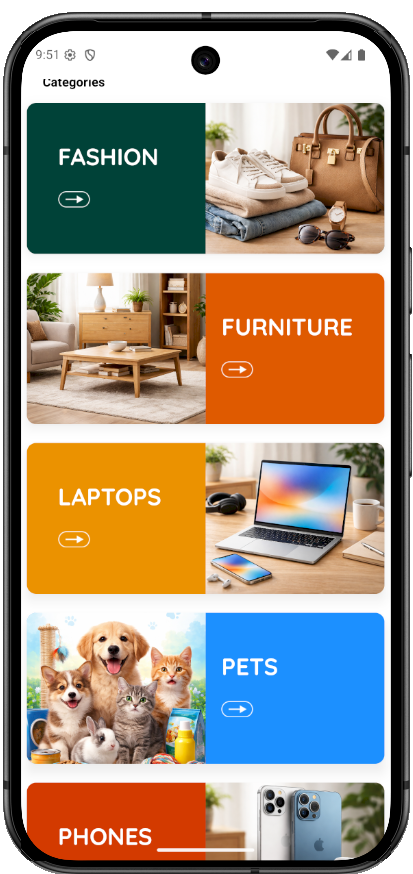
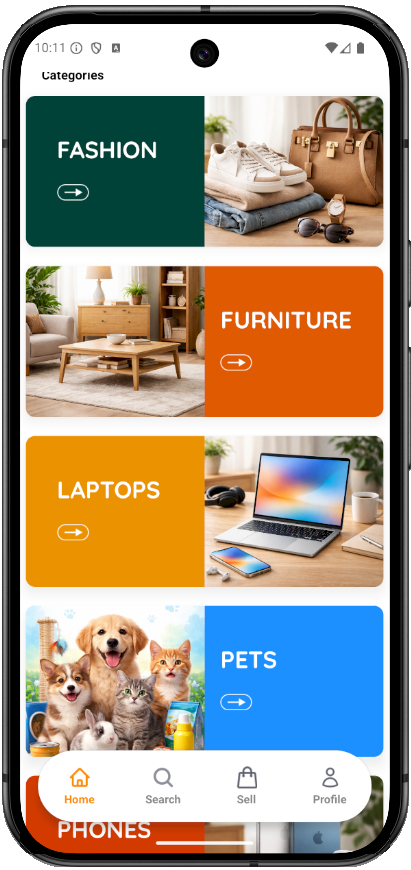
Add navigation bar for tabs

diff --git a/app/(tabs)/_layout.tsx b/app/(tabs)/_layout.tsx
@@ -1,18 +1,68 @@
+import TabBarIcon from "@/components/TabBarIcon"
+import { images } from "@/constants"
 import { useAuth } from "@/context/AuthContext"
-import { Redirect, Slot, SplashScreen } from 'expo-router'
-import { useEffect } from "react"
-import { Text } from "react-native"
+import { Redirect, Tabs } from 'expo-router'
+
+
 
 export default function _Layout() {
   const { isAuthenticated, isInitialLoad } = useAuth()
 
   if (isInitialLoad) {
-    return <Text>stuck on layout screen</Text>
+    return null
   }
 
   if (!isAuthenticated) {
     return <Redirect href="/(auth)/sign-in" />
   }
 
-  return <Slot />
+  return (
+    <Tabs
+      screenOptions={{
+        headerShown: false,
+        tabBarShowLabel: false,
+        tabBarStyle: {
+          borderTopLeftRadius: 50,
+          borderTopRightRadius: 50,
+          borderBottomLeftRadius: 50,
+          borderBottomRightRadius: 50,
+          marginHorizontal: 20,
+          height: 80,
+          position: "absolute",
+          bottom: 35,
+          backgroundColor: "white",
+          shadowColor: "#1a1a1a",
+          shadowOffset: { width: 0, height: 2 },
+          shadowOpacity: 0.1,
+          shadowRadius: 4,
+          elevation: 5
+        }
+      }}
+    >
+      <Tabs.Screen
+        name="index"
+        options={{
+          tabBarIcon: ({ focused} ) => <TabBarIcon focused={focused} title="Home" icon={images.home}/>
+        }}
+      />
+      <Tabs.Screen
+        name="search"
+        options={{
+          tabBarIcon: ({ focused} ) => <TabBarIcon focused={focused} title="Search" icon={images.search}/>
+        }}
+      />
+      <Tabs.Screen
+        name="sell"
+        options={{
+          tabBarIcon: ({ focused} ) => <TabBarIcon focused={focused} title="Sell" icon={images.bag}/>
+        }}
+      />
+      <Tabs.Screen
+        name="profile"
+        options={{
+          tabBarIcon: ({ focused} ) => <TabBarIcon focused={focused} title="Profile" icon={images.user}/>
+        }}
+      />
+    </Tabs>
+  )
 }

diff --git a/constants/index.ts b/constants/index.ts
@@ -19,50 +19,16 @@ import star from "@/assets/icons/star.png";
 import trash from "@/assets/icons/trash.png";
 import user from "@/assets/icons/user.png";
 
-import avatar from "@/assets/images/avatar.png";
-import avocado from "@/assets/images/avocado.png";
-import bacon from "@/assets/images/bacon.png";
-import burgerOne from "@/assets/images/burger-one.png";
-import burgerTwo from "@/assets/images/burger-two.png";
-import buritto from "@/assets/images/buritto.png";
-import cheese from "@/assets/images/cheese.png";
-import coleslaw from "@/assets/images/coleslaw.png";
-import cucumber from "@/assets/images/cucumber.png";
 import emptyState from "@/assets/images/empty-state.png";
-import fries from "@/assets/images/fries.png";
 import loginGraphic from "@/assets/images/login-graphic.jpg";
 import logo from "@/assets/images/logo.png";
-import mozarellaSticks from "@/assets/images/mozarella-sticks.png";
-import mushrooms from "@/assets/images/mushrooms.png";
-import onionRings from "@/assets/images/onion-rings.png";
-import onions from "@/assets/images/onions.png";
-import pizzaOne from "@/assets/images/pizza-one.png";
-import salad from "@/assets/images/salad.png";
 import success from "@/assets/images/success.png";
-import tomatoes from "@/assets/images/tomatoes.png";
 
 export const images = {
-    avatar,
-    avocado,
-    bacon,
-    burgerOne,
-    burgerTwo,
-    buritto,
-    cheese,
-    coleslaw,
-    cucumber,
     emptyState,
-    fries,
     loginGraphic,
     logo,
-    mozarellaSticks,
-    mushrooms,
-    onionRings,
-    onions,
-    pizzaOne,
-    salad,
     success,
-    tomatoes,
     arrowBack,
     arrowDown,
     arrowRight,

diff --git a/app/(tabs)/index.tsx b/app/(tabs)/index.tsx
@@ -7,12 +7,9 @@ import { useQuery } from "@tanstack/react-query";
 import LoadingIndicator from "@/components/LoadingIndicator";
 import PageLoadError from "@/components/PageLoadError";
 import { fetchCategoriesQueryOptions } from "@/api/listingsQueryOptions";
-import { useAuth } from "@/context/AuthContext";
  
 
 export default function Index() {
-    const { user, signOut } = useAuth()
-
     const { data, isLoading, error, refetch } = useQuery(fetchCategoriesQueryOptions)
 
     if (isLoading) return (
@@ -68,11 +65,6 @@ export default function Index() {
                         <View className="flex-start">
                             <Text className="font-bold">Categories</Text>
                         </View>
-                        <Pressable onPress={signOut} style={({pressed}) => [ { opacity: pressed ? 0.7 : 1, margin: 2 }, { padding: 2 } ]}>
-                            <Text>
-                                {user?.sub ?? "No User"}
-                            </Text>
-                        </Pressable>
                     </View>
                 )}  
             />

diff --git a/components/TabBarIcon.tsx b/components/TabBarIcon.tsx
@@ -1,0 +1,25 @@
+import { View, Text, Image, ImageSourcePropType } from 'react-native'
+import React from 'react'
+import cn from "clsx"
+
+interface TabBarIconProps {
+    focused: boolean
+    icon: ImageSourcePropType
+    title: string
+}
+
+const TabBarIcon = ({ focused, icon, title }: TabBarIconProps) => {
+  return (
+    <View className="tab-icon">
+        <Image 
+            source={icon} 
+            className="size-7" 
+            resizeMode="contain" 
+            tintColor={focused ? "#FE8C00" : "#5D5F6D"}
+        />
+        <Text className={cn("text-sm font-bold", focused ? "text-primary" : "text-gray-200")}>{title}</Text>
+    </View>
+  )
+}
+
+export default TabBarIcon

diff --git a/app/(tabs)/profile.tsx b/app/(tabs)/profile.tsx
@@ -1,9 +1,17 @@
+import CustomButton from "@/components/CustomButton"
+import { useAuth } from "@/context/AuthContext"
 import { View, Text } from 'react-native'
 
 const Profile = () => {
+  const { signOut, user } = useAuth()
+
   return (
-    <View>
-      <Text>Profile</Text>
+    <View className="flex-1 items-center justify-center bg-white px-4">
+      <Text className="mb-4 text-lg">User ID: {user?.sub}</Text>
+      <CustomButton
+        onPress={signOut}
+        title="Sign Out"
+      />
     </View>
   )
 }

diff --git a/app/(tabs)/sell.tsx b/app/(tabs)/sell.tsx
@@ -2,9 +2,9 @@ import { View, Text } from 'react-native'
 
 const Sell = () => {
   return (
-    <View>
-      <Text>Sell</Text>
-    </View>
+    <View className="flex-1 items-center justify-center bg-white px-4">
+          <Text className="mb-4 text-4xl font-bold">Sell Screen</Text>
+        </View>
   )
 }
 

diff --git a/app/globals.css b/app/globals.css
@@ -45,6 +45,10 @@
         @apply text-lg font-quicksand-bold !important;
     }
 
+    .tab-icon {
+        @apply flex min-w-20 items-center justify-center min-h-full gap-1 mt-12;
+    }
+
     .category-card {
         @apply w-full h-48 my-3 rounded-xl overflow-hidden shadow-lg flex items-center gap-5;
     }

diff --git a/app/(tabs)/search.tsx b/app/(tabs)/search.tsx
@@ -3,8 +3,8 @@ import React from 'react'
 
 const Search = () => {
   return (
-    <View>
-      <Text>Search</Text>
+    <View className="flex-1 items-center justify-center bg-white px-4">
+      <Text className="mb-4 text-4xl font-bold">Search Screen</Text>
     </View>
   )
 }
